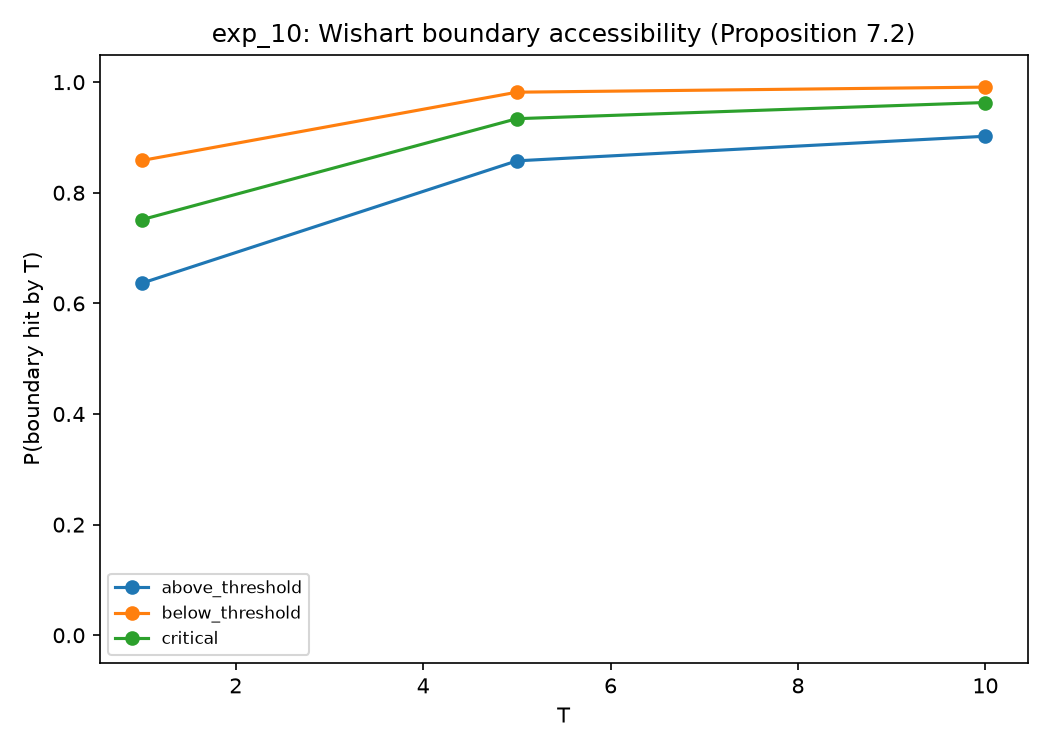
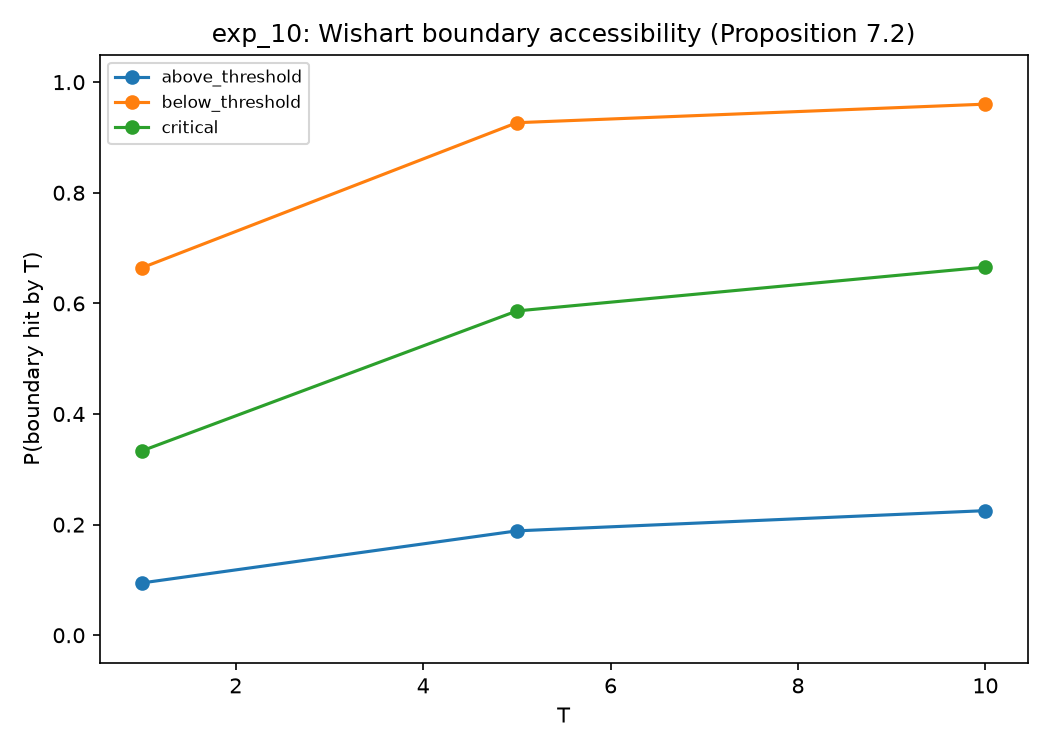
Fix Wishart boundary simulation to use the Cholesky square root

diff --git a/src/model_wishart.py b/src/model_wishart.py
@@ -1,21 +1,26 @@
 """2x2 Wishart process boundary accessibility (Proposition 7.2).
 
 Simulates Sigma = [[Sigma11, Sigma12], [Sigma12, Sigma22]] with Q = I, M = 0
-and isotropic Omega = omega*I (omega = sqrt(omega_sq)). Under these choices
-the matrix SDE dSigma = (Omega Omega^T + M Sigma + Sigma M^T) dt +
-sqrt(Sigma) dW Q + Q^T dW^T sqrt(Sigma) reduces to the three coupled scalar
-SDEs (exp_10 implementation notes):
+and isotropic Omega = omega*I (omega = sqrt(omega_sq)). The matrix SDE
+dSigma = (Omega Omega^T + M Sigma + Sigma M^T) dt + sqrt(Sigma) dW Q +
+Q^T dW^T sqrt(Sigma) is discretized with sqrt(Sigma) = L, the lower-triangular
+Cholesky factor of Sigma (exp_10 implementation notes: "use the Cholesky
+decomposition to ensure positive definiteness"), L = [[l11, 0], [l21, l22]]
+with l11 = sqrt(Sigma11), l21 = Sigma12/l11, l22 = sqrt(Sigma22 - l21^2).
+Writing out L dW + dW^T L^T entrywise (W the 2x2 matrix of four independent
+driving Brownian motions W11, W12, W21, W22) gives the coupled scalar system
 
-    dSigma11 = omega^2 dt + 2*sqrt(Sigma11) dW11
-    dSigma22 = omega^2 dt + 2*sqrt(Sigma22) dW22
-    dSigma12 =              sqrt(Sigma11) dW12 + sqrt(Sigma22) dW21
+    dSigma11 = omega^2 dt + 2*l11*dW11
+    dSigma22 = omega^2 dt + 2*(l21*dW12 + l22*dW22)
+    dSigma12 =              l11*dW12 + l21*dW11 + l22*dW21
 
-where W11, W12, W21, W22 are four independent standard Brownian motions (the
-entries of the driving 2x2 matrix Brownian motion W). Discretized by
-full-truncation Euler-Maruyama (same convention as mc_core.cir_step):
-Sigma11, Sigma22 use max(., 0) under the square root and are floored at 0
-after each step, so paths are allowed to actually reach the boundary instead
-of being reflected away from it.
+which keeps the off-diagonal entry's contribution to Sigma22's and Sigma12's
+dynamics (the earlier entrywise-sqrt simplification, correct only when
+Sigma12 = 0, dropped the l21 cross terms and understated the true
+quadratic variation away from the diagonal). Discretized by full-truncation
+Euler-Maruyama (same convention as mc_core.cir_step): Sigma11 and the
+discriminant Sigma22 - l21^2 use max(., 0) under their square roots, and
+Sigma11, Sigma22 are floored at 0 after each step.
 """
 from __future__ import annotations
 
@@ -28,6 +33,16 @@ def lambda_min_2x2(sigma11: np.ndarray, sigma22: np.ndarray, sigma12: np.ndarray
     """Smaller eigenvalue of [[sigma11, sigma12], [sigma12, sigma22]], closed form."""
     disc = np.sqrt((sigma11 - sigma22) ** 2 + 4.0 * sigma12 ** 2)
     return (sigma11 + sigma22 - disc) / 2.0
+
+
+def _cholesky_2x2(sigma11: np.ndarray, sigma22: np.ndarray, sigma12: np.ndarray,
+                   floor: float) -> tuple[np.ndarray, np.ndarray, np.ndarray]:
+    """Lower-triangular Cholesky factor entries (l11, l21, l22) of Sigma."""
+    s11 = np.maximum(sigma11, floor)
+    l11 = np.sqrt(s11)
+    l21 = np.where(s11 > floor, sigma12 / np.where(s11 > floor, l11, 1.0), 0.0)
+    l22 = np.sqrt(np.maximum(sigma22 - l21 ** 2, 0.0))
+    return l11, l21, l22
 
 
 def simulate_min_eigenvalue_paths(
@@ -53,16 +68,16 @@ def simulate_min_eigenvalue_paths(
         sigma22 = np.full(size, sigma22_0)
         sigma12 = np.full(size, sigma12_0)
         running_min = lambda_min_2x2(sigma11, sigma22, sigma12).copy()
+        floor = 1e-12
         for _ in range(n_steps):
             dw11 = rng.standard_normal(size) * sqrt_dt
             dw12 = rng.standard_normal(size) * sqrt_dt
             dw21 = rng.standard_normal(size) * sqrt_dt
             dw22 = rng.standard_normal(size) * sqrt_dt
-            sqrt_s11 = np.sqrt(np.maximum(sigma11, 0.0))
-            sqrt_s22 = np.sqrt(np.maximum(sigma22, 0.0))
-            sigma11 = np.maximum(sigma11 + omega_sq * dt + 2.0 * sqrt_s11 * dw11, 0.0)
-            sigma22 = np.maximum(sigma22 + omega_sq * dt + 2.0 * sqrt_s22 * dw22, 0.0)
-            sigma12 = sigma12 + sqrt_s11 * dw12 + sqrt_s22 * dw21
+            l11, l21, l22 = _cholesky_2x2(sigma11, sigma22, sigma12, floor)
+            sigma11 = np.maximum(sigma11 + omega_sq * dt + 2.0 * l11 * dw11, 0.0)
+            sigma22 = np.maximum(sigma22 + omega_sq * dt + 2.0 * (l21 * dw12 + l22 * dw22), 0.0)
+            sigma12 = sigma12 + l11 * dw12 + l21 * dw11 + l22 * dw21
             running_min = np.minimum(running_min, lambda_min_2x2(sigma11, sigma22, sigma12))
         out[start:start + size] = running_min
         start += size

diff --git a/tests/test_exp10.py b/tests/test_exp10.py
@@ -43,13 +43,11 @@ def test_criteria_qualitative_facts() -> None:
     )
 
 
-# This simplified (componentwise-sqrt) discretization of the n=2 Wishart SDE
-# does not exactly preserve positive semi-definiteness away from Sigma12=0
-# (the true matrix square root's off-diagonal entry is dropped, per the
-# literal equations in the exp_10 implementation notes), so moderate omega_sq
-# values such as the EXP10_OMEGA_SQ_CASES (up to 4.0) still show a sizeable
-# boundary-hit rate over T=1 at these tiny step/path counts. A substantially
-# larger omega_sq is used here to exercise the "well above threshold" regime.
+# A substantially larger omega_sq than the EXP10_OMEGA_SQ_CASES is used here
+# so that the "well above threshold" regime is unambiguous even at the tiny
+# step/path counts of a unit test (the discretization bias of the Euler
+# scheme near the boundary still gives a non-negligible hit rate close to
+# the exact n+1 = 3 threshold at coarse resolution).
 WELL_ABOVE_THRESHOLD_OMEGA_SQ = 100.0
 
 
